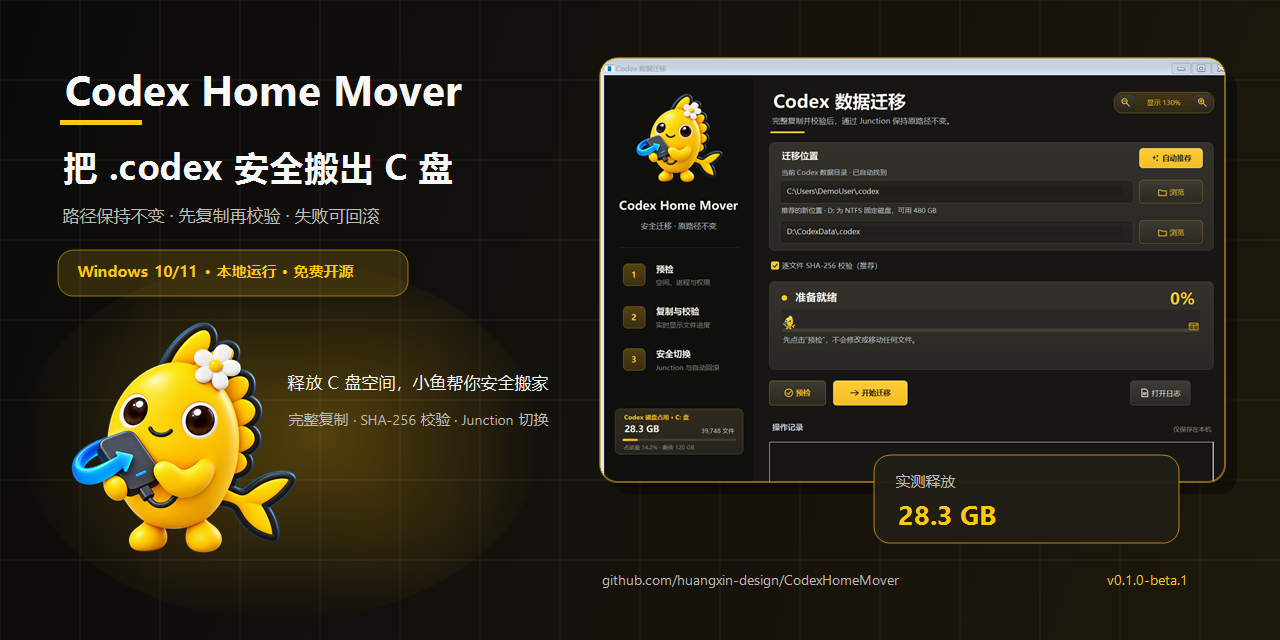
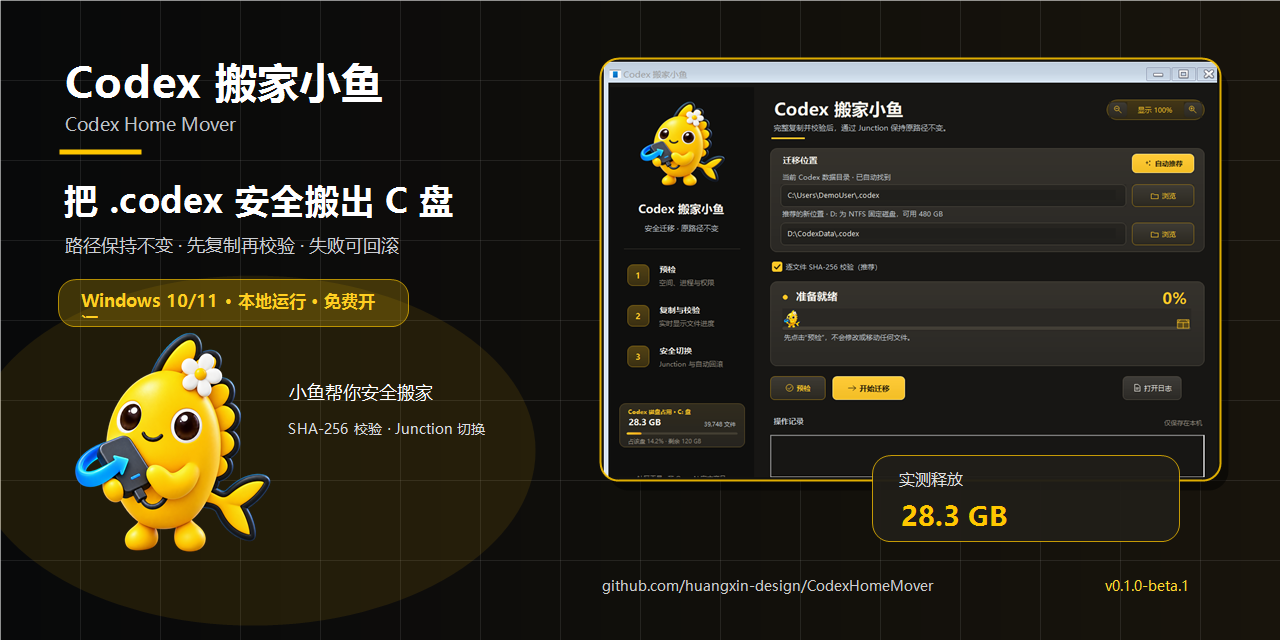
Adopt Codex 搬家小鱼 product name

diff --git a/src/MainForm.cs b/src/MainForm.cs
@@ -207,7 +207,7 @@ namespace CodexHomeMover
 
         private void InitializeWindow()
         {
-            Text = "Codex 数据迁移";
+            Text = "Codex 搬家小鱼";
             ClientSize = new Size(BaseClientWidth, BaseClientHeight);
             StartPosition = FormStartPosition.CenterScreen;
             FormBorderStyle = FormBorderStyle.Sizable;
@@ -254,7 +254,7 @@ namespace CodexHomeMover
             content.BackColor = appBackground;
             zoomSurface.Controls.Add(content);
 
-            Label heading = NewLabel("Codex 数据迁移", 22F, FontStyle.Bold, textPrimary);
+            Label heading = NewLabel("Codex 搬家小鱼", 22F, FontStyle.Bold, textPrimary);
             heading.Location = new Point(28, 18);
             heading.Size = new Size(420, 42);
             content.Controls.Add(heading);
@@ -612,7 +612,7 @@ namespace CodexHomeMover
             mascot.Image = LoadMascot();
             sidebar.Controls.Add(mascot);
 
-            Label productName = NewLabel("Codex Home Mover", 15F, FontStyle.Bold, textPrimary);
+            Label productName = NewLabel("Codex 搬家小鱼", 15F, FontStyle.Bold, textPrimary);
             productName.Location = new Point(16, 196);
             productName.Size = new Size(218, 38);
             productName.TextAlign = ContentAlignment.MiddleCenter;

diff --git a/src/Program.cs b/src/Program.cs
@@ -3,10 +3,10 @@ using System.Reflection;
 using System.Runtime.InteropServices;
 using System.Windows.Forms;
 
-[assembly: AssemblyTitle("Codex Home Mover")]
+[assembly: AssemblyTitle("Codex 搬家小鱼 (Codex Home Mover)")]
 [assembly: AssemblyDescription("Safely move Codex data on Windows with verification and rollback.")]
 [assembly: AssemblyCompany("CodexHomeMover contributors")]
-[assembly: AssemblyProduct("Codex Home Mover")]
+[assembly: AssemblyProduct("Codex 搬家小鱼 (Codex Home Mover)")]
 [assembly: AssemblyCopyright("Copyright (c) 2026 CodexHomeMover contributors")]
 [assembly: AssemblyVersion("0.1.0.0")]
 [assembly: AssemblyFileVersion("0.1.0.0")]

diff --git a/ASSET-LICENSE.md b/ASSET-LICENSE.md
@@ -1,6 +1,6 @@
 # Asset license / 素材许可
 
-Copyright (c) 2026 Codex Home Mover project owner. All rights reserved.
+Copyright (c) 2026 Codex 搬家小鱼 (Codex Home Mover) project owner. All rights reserved.
 
 The project owner confirms that the yellow mascot and application icon are original works created by the project owner. The affected files are:
 
@@ -11,9 +11,9 @@ These assets are not licensed under the MIT License that applies to the software
 
 Permission is granted to:
 
-- include and redistribute the assets as an integral, unmodified part of the official Codex Home Mover source repository and binary releases;
+- include and redistribute the assets as an integral, unmodified part of the official Codex 搬家小鱼 (Codex Home Mover) source repository and binary releases;
 - retain unmodified copies in GitHub forks created for source-code collaboration;
-- use screenshots or recordings of the application for reviews, tutorials, news coverage, and non-commercial promotion of Codex Home Mover.
+- use screenshots or recordings of the application for reviews, tutorials, news coverage, and non-commercial promotion of Codex 搬家小鱼 (Codex Home Mover).
 
 Separate reuse, modification, sublicensing, merchandising, commercial exploitation, use as another product's identity, or redistribution outside the cases above is not permitted without prior written permission from the project owner. Public forks that change the product's identity or purpose must replace these assets or obtain permission.
 
@@ -21,6 +21,6 @@ Separate reuse, modification, sublicensing, merchandising, commercial exploitati
 
 小鱼角色与应用图标均由项目所有者原创设计，版权归项目所有者保留。软件源代码使用 MIT License，但小鱼角色和图标不属于 MIT 授权范围。
 
-允许将这些素材原样包含在 Codex Home Mover 官方源码仓库、官方发布包以及用于源码协作的 GitHub Fork 中；也允许为了评测、教程、新闻报道和本项目的非商业宣传使用软件截图或录屏。
+允许将这些素材原样包含在 Codex 搬家小鱼（Codex Home Mover）官方源码仓库、官方发布包以及用于源码协作的 GitHub Fork 中；也允许为了评测、教程、新闻报道和本项目的非商业宣传使用软件截图或录屏。
 
 未经项目所有者书面许可，不允许把角色或图标单独提取后修改、转授权、制作商品、用于其他产品或品牌，或在上述范围之外进行商业使用和再分发。改变产品名称、品牌或用途的公开 Fork 应替换这些素材，或另行取得授权。

diff --git a/README.md b/README.md
@@ -1,7 +1,7 @@
-# Codex Home Mover
+# Codex 搬家小鱼（Codex Home Mover）
 
 <p align="center">
-  <img src="docs/github-social-preview.png" alt="Codex Home Mover：把 .codex 安全搬出 C 盘" width="100%">
+  <img src="docs/github-social-preview.png" alt="Codex 搬家小鱼：把 .codex 安全搬出 C 盘" width="100%">
 </p>
 
 <p align="center">
@@ -25,7 +25,7 @@
 > [!WARNING]
 > 本工具会以管理员权限修改目录结构和访问权限。重要资料请先独立备份；迁移期间不要关机或移除目标磁盘。“释放 C 盘空间”会永久删除安全备份，并且不会进入回收站。
 
-![Codex Home Mover 脱敏演示界面](docs/ui-preview.png)
+![Codex 搬家小鱼脱敏演示界面](docs/ui-preview.png)
 
 ## 它解决什么问题
 
@@ -149,4 +149,4 @@
 
 ## English summary
 
-Codex Home Mover is an unofficial Windows utility that moves a user's `.codex` directory to another fixed NTFS drive while preserving the original path through a directory junction. It performs copy-first migration, optional per-file SHA-256 verification, rollback, and local-only logging. Download the complete Release ZIP and read the warnings above before use.
+Codex 搬家小鱼 (Codex Home Mover) is an unofficial Windows utility that moves a user's `.codex` directory to another fixed NTFS drive while preserving the original path through a directory junction. It performs copy-first migration, optional per-file SHA-256 verification, rollback, and local-only logging. Download the complete Release ZIP and read the warnings above before use.

diff --git a/SECURITY.md b/SECURITY.md
@@ -19,6 +19,6 @@ Do not attach a real `.codex` directory, `auth.json`, SQLite databases, account 
 
 ## Security model
 
-Codex Home Mover requires administrator privileges only because final directory switching, NTFS Junctions, and access-control preservation need them. The application is offline and does not intentionally transmit files, logs, or telemetry.
+Codex 搬家小鱼 (Codex Home Mover) requires administrator privileges only because final directory switching, NTFS Junctions, and access-control preservation need them. The application is offline and does not intentionally transmit files, logs, or telemetry.
 
 The current community build is not Authenticode-signed. Verify downloads using the SHA-256 file published with the GitHub Release. Never disable Microsoft Defender or weaken Windows security settings to run the tool.

diff --git a/docs/GITHUB_PUBLISHING.md b/docs/GITHUB_PUBLISHING.md
@@ -38,7 +38,7 @@ codex windows migration ntfs junction winforms backup disk-space
 
 1. 在 GitHub 打开 **Releases → Draft a new release**。
 2. 新建标签 `v0.1.0-beta.1`，目标分支选 `main`。
-3. 标题填写 `Codex Home Mover v0.1.0-beta.1`。
+3. 标题填写 `Codex 搬家小鱼（Codex Home Mover）v0.1.0-beta.1`。
 4. 勾选 **Set as a pre-release**。
 5. 复制 `docs/RELEASE_NOTES_v0.1.0-beta.1.md` 的内容。
 6. 只上传：

diff --git a/CONTRIBUTING.md b/CONTRIBUTING.md
@@ -1,6 +1,6 @@
 # Contributing
 
-Thank you for helping improve Codex Home Mover. This is a recovery-sensitive Windows utility, so changes should stay small and verifiable.
+Thank you for helping improve Codex 搬家小鱼 (Codex Home Mover). This is a recovery-sensitive Windows utility, so changes should stay small and verifiable.
 
 ## Development requirements
 

diff --git a/CHANGELOG.md b/CHANGELOG.md
@@ -2,6 +2,12 @@
 
 All notable changes to this project are documented here.
 
+## Unreleased
+
+### Changed
+
+- Adopted the public-facing Chinese name “Codex 搬家小鱼” while retaining “Codex Home Mover” as the English and repository name.
+
 ## [0.1.0-beta.1] - 2026-08-26
 
 First public beta candidate.

diff --git a/PRIVACY.md b/PRIVACY.md
@@ -1,6 +1,6 @@
 # Privacy
 
-Codex Home Mover runs locally and has no telemetry, analytics, updater, advertising, or network upload feature.
+Codex 搬家小鱼 (Codex Home Mover) runs locally and has no telemetry, analytics, updater, advertising, or network upload feature.
 
 ## Data the program accesses
 

diff --git a/docs/RELEASE_NOTES_v0.1.0-beta.1.md b/docs/RELEASE_NOTES_v0.1.0-beta.1.md
@@ -1,4 +1,4 @@
-# Codex Home Mover v0.1.0-beta.1
+# Codex 搬家小鱼（Codex Home Mover）v0.1.0-beta.1
 
 首个公开测试版。建议先在重要数据已有独立备份的 Windows 10/11 电脑上使用。
 
